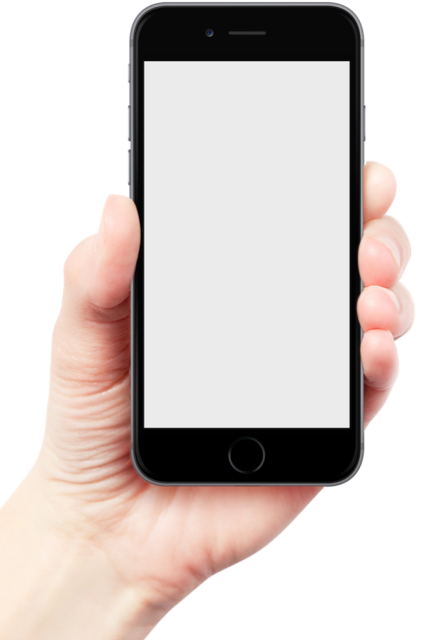
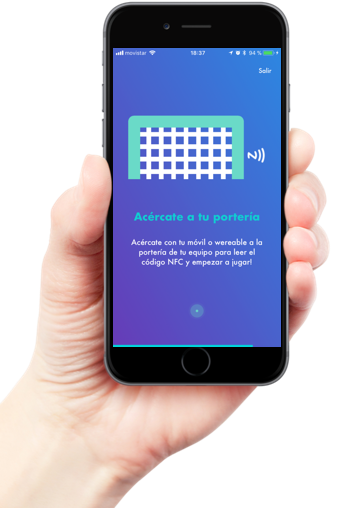
updated images and fixed index

Changed region(s): [[0.3198, 0.0886, 0.843, 0.7087], [0.3779, 0.0, 0.814, 0.0295], [0.814, 0.0295, 0.843, 0.0591]]

diff --git a/index.html b/index.html
@@ -79,23 +79,14 @@
                         </div>
                         <div id="main-nav" class="stellarnav">
                             <ul id="nav" class="nav navbar-nav pull-right">
-                                <li class="active"><a href="#home">Home</a>
-                                    <ul>
-                                        <li><a href="index-shadow.html">Home Effective</a></li>
-                                        <li><a href="index.html">Home Default 1</a></li>
-                                        <li><a href="index-2.html">Home Default 2</a></li>
-                                        <li><a href="index-gradient.html">Home Gradient</a></li>
-                                        <li><a href="index-video.html">Home Video</a></li>
-                                        <li><a href="index-particle.html">Home Particle</a></li>
-                                    </ul>
-                                </li>
+                                <li class="active"><a href="#home">Home</a></li>
                                 <li><a href="#about">About</a></li>
-                                <li><a href="#features">Features</a></li>
-                                <li><a href="#screenshot">Screenshot</a></li>
+                                <!-- <li><a href="#features">Features</a></li> -->
+                                <li><a href="#screenshot">Screenshots</a></li>
                                 <li><a href="#team">Team</a></li>
-                                <li><a href="#pricing">Pricing</a></li>
+                                <!-- <li><a href="#pricing">Pricing</a></li> -->
                                 <li><a href="#faqs">Faqs</a></li>
-                                <li><a href="#news">Blog</a></li>
+                                <!-- <li><a href="#news">Blog</a></li> -->
                                 <li><a href="#contact">Contact</a></li>
                             </ul>
                         </div>
@@ -129,16 +120,16 @@
                                 <img src="assest/img/home/home-mockup.png" alt="">
                                 <div class="home-mockup-slider">
                                     <div class="single-mockups">
-                                        <img src="assest/img/screenshot/top-screen-1.png" alt="">
+                                        <img src="assest/img/loading-page.png" alt="">
                                     </div>
                                     <div class="single-mockups">
-                                        <img src="assest/img/screenshot/top-screen-2.png" alt="">
+                                        <img src="assest/img/home-page.png" alt="">
                                     </div>
                                     <div class="single-mockups">
-                                        <img src="assest/img/screenshot/top-screen-3.png" alt="">
+                                        <img src="assest/img/home-page-2.png" alt="">
                                     </div>
                                     <div class="single-mockups">
-                                        <img src="assest/img/screenshot/top-screen-4.png" alt="">
+                                        <img src="assest/img/home-page-3.png" alt="">
                                     </div>
                                 </div>
                             </div>
@@ -247,7 +238,7 @@
                         <p>Do you want to see your stats? Keep playing and improve your stats thanks to our technology. After some healthy competition, compare yourself to others and improve your social time!</p>
 
                         <p class="mt20">You can see other players who are similar to you so that you can build the most balanced team. Improve your football experience!</p>
-                        <a href="#" class="read-more mt30 inline-block">Read More</a>
+                        <!-- <a href="#" class="read-more mt30 inline-block">Read More</a> -->
                     </div>
                 </div>
                 <div class="col-md-6 col-lg-6 col-sm-12 col-xs-12">
@@ -357,8 +348,8 @@
             <div class="row">
                 <div class="col-md-8 col-lg-8 col-md-offset-2 col-lg-offset-2 col-sm-12 col-xs-12">
                     <div class="area-title text-center wow fadeIn">
-                        <h2>App <span>Screenshot</span></h2>
-                        <p>Lorem ipsum madolor sit amet, consectetur adipisicing elit, sed do eiusmod tempor coli incidit labore Lorem ipsum amet madolor sit amet.</p>
+                        <h2>App <span>Screenshots</span></h2>
+                        <!-- <p>Lorem ipsum madolor sit amet, consectetur adipisicing elit, sed do eiusmod tempor coli incidit labore Lorem ipsum amet madolor sit amet.</p> -->
                     </div>
                 </div>
             </div>
@@ -369,43 +360,25 @@
                     <div class="screenshot-slider-area wow fadeIn">
                         <div class="screenshot-slider">
                             <div class="single-screenshot">
-                                <img src="assest/img/screenshot/screenshot-1.jpg" alt="">
+                                <img src="assest/img/screenshot/screen-1.png" alt="">
                             </div>
                             <div class="single-screenshot">
-                                <img src="assest/img/screenshot/screenshot-8.jpg" alt="">
+                                <img src="assest/img/screenshot/screen-2.png" alt="">
                             </div>
                             <div class="single-screenshot">
-                                <img src="assest/img/screenshot/screenshot-3.jpg" alt="">
+                                <img src="assest/img/screenshot/screen-3.png" alt="">
                             </div>
                             <div class="single-screenshot">
-                                <img src="assest/img/screenshot/screenshot-4.jpg" alt="">
+                                <img src="assest/img/screenshot/screen-4.png" alt="">
                             </div>
                             <div class="single-screenshot">
-                                <img src="assest/img/screenshot/screenshot-5.jpg" alt="">
+                                <img src="assest/img/screenshot/screen-5.png" alt="">
                             </div>
                             <div class="single-screenshot">
-                                <img src="assest/img/screenshot/screenshot-6.jpg" alt="">
+                                <img src="assest/img/screenshot/screen-6.png" alt="">
                             </div>
                             <div class="single-screenshot">
-                                <img src="assest/img/screenshot/screenshot-7.jpg" alt="">
-                            </div>
-                            <div class="single-screenshot">
-                                <img src="assest/img/screenshot/screenshot-8.jpg" alt="">
-                            </div>
-                            <div class="single-screenshot">
-                                <img src="assest/img/screenshot/screenshot-2.jpg" alt="">
-                            </div>
-                            <div class="single-screenshot">
-                                <img src="assest/img/screenshot/screenshot-3.jpg" alt="">
-                            </div>
-                            <div class="single-screenshot">
-                                <img src="assest/img/screenshot/screenshot-4.jpg" alt="">
-                            </div>
-                            <div class="single-screenshot">
-                                <img src="assest/img/screenshot/screenshot-5.jpg" alt="">
-                            </div>
-                            <div class="single-screenshot">
-                                <img src="assest/img/screenshot/screenshot-6.jpg" alt="">
+                                <img src="assest/img/screenshot/screen-7.png" alt="">
                             </div>
                         </div>
                     </div>
@@ -751,7 +724,7 @@
             <div class="row flex-v-center">
                 <div class="col-md-4">
                     <div class="faqs-mockup hidden-sm xs-center xs-mb50">
-                        <img src="assest/img/faqs-mockup.png" alt="">
+                        <img src="assest/img/faq.png" alt="">
                     </div>
                 </div>
                 <div class="col-md-offset-1 col-md-7">
@@ -1100,7 +1073,7 @@
         });
 
     </script>
-    <script>
+    <!-- <script>
         function getValueByID(id) {
             return document.getElementById(id).value;
         }
@@ -1115,9 +1088,9 @@
             hexagon.draw([str, agi, mag, hp, mp, def]);
         }
         fresh ();
-    </script>
+    </script> -->
     <!-- Chart code -->
-    <script>
+    <!-- <script>
         var chart = AmCharts.makeChart( "chartdiv", {
             "type": "radar",
             "theme": "dark",
@@ -1154,7 +1127,7 @@
             } ],
             "categoryField": "skill",
         } );
-    </script>
+    </script> -->
         
     <!--===== MAPS JS=====-->
     <script type="text/javascript" src="https://maps.googleapis.com/maps/api/js?key=AIzaSyBTS_KEDfHXYBslFTI_qPJIybDP3eceE-A&sensor=false"></script>
